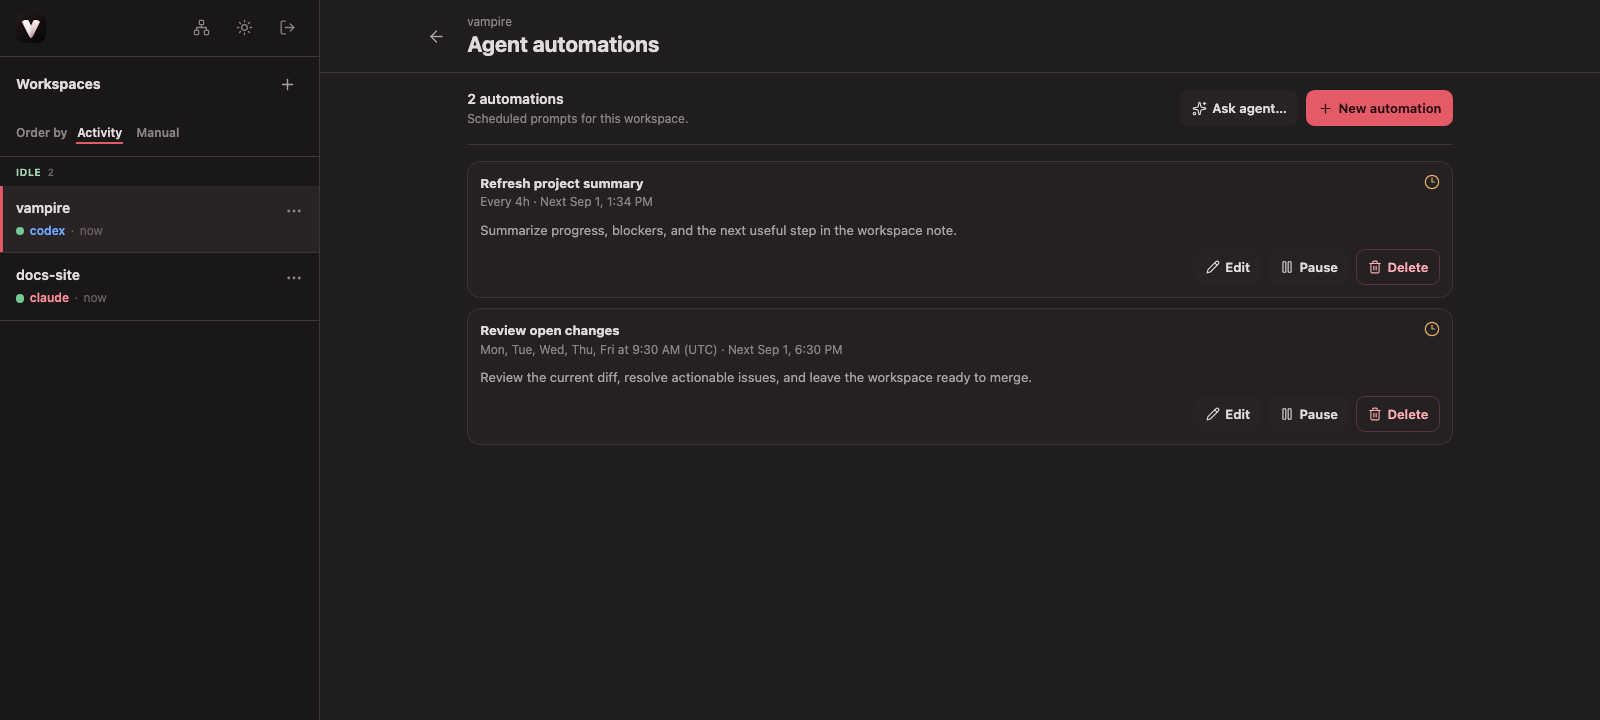
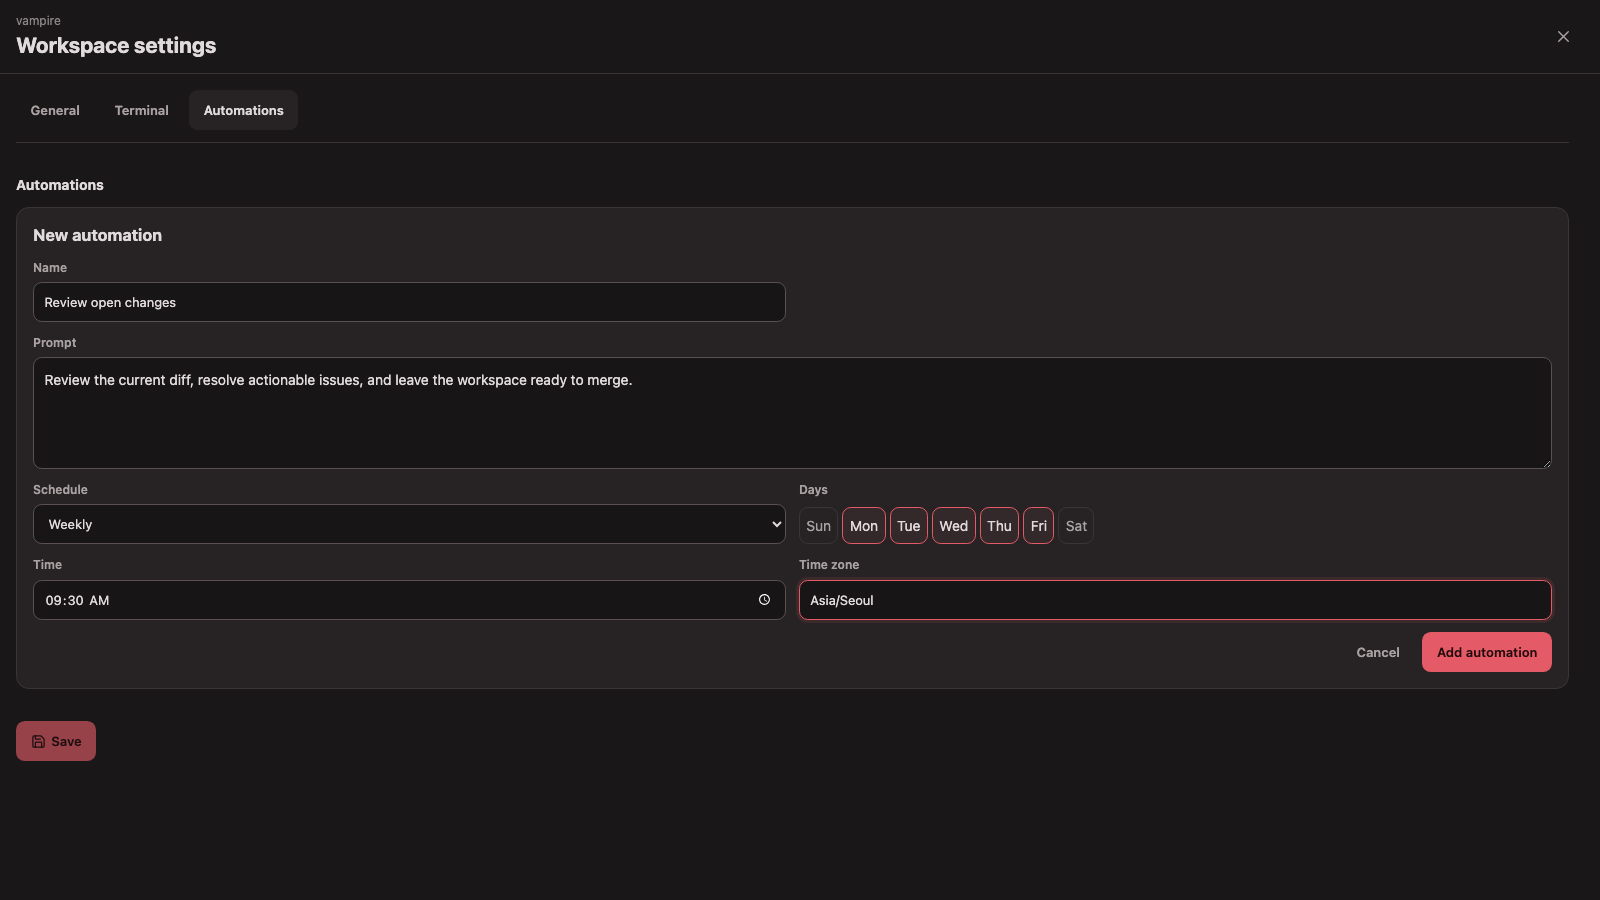
docs: refresh README product screenshots

diff --git a/README.md b/README.md
@@ -26,7 +26,7 @@ Vampire keeps Codex, Claude Code, and other CLI coding agents running in persist
 
 ### Schedule work for the active agent
 
-<img src="docs/images/vampire-automations.png" alt="Vampire agent automations page" />
+<img src="docs/images/vampire-automations.png" alt="Vampire workspace automation creation form" />
 
 Automations deliver a saved prompt to the workspace's main agent session on a one-time or recurring schedule. They use the same persistent workspace instead of starting a separate hidden agent.
 
